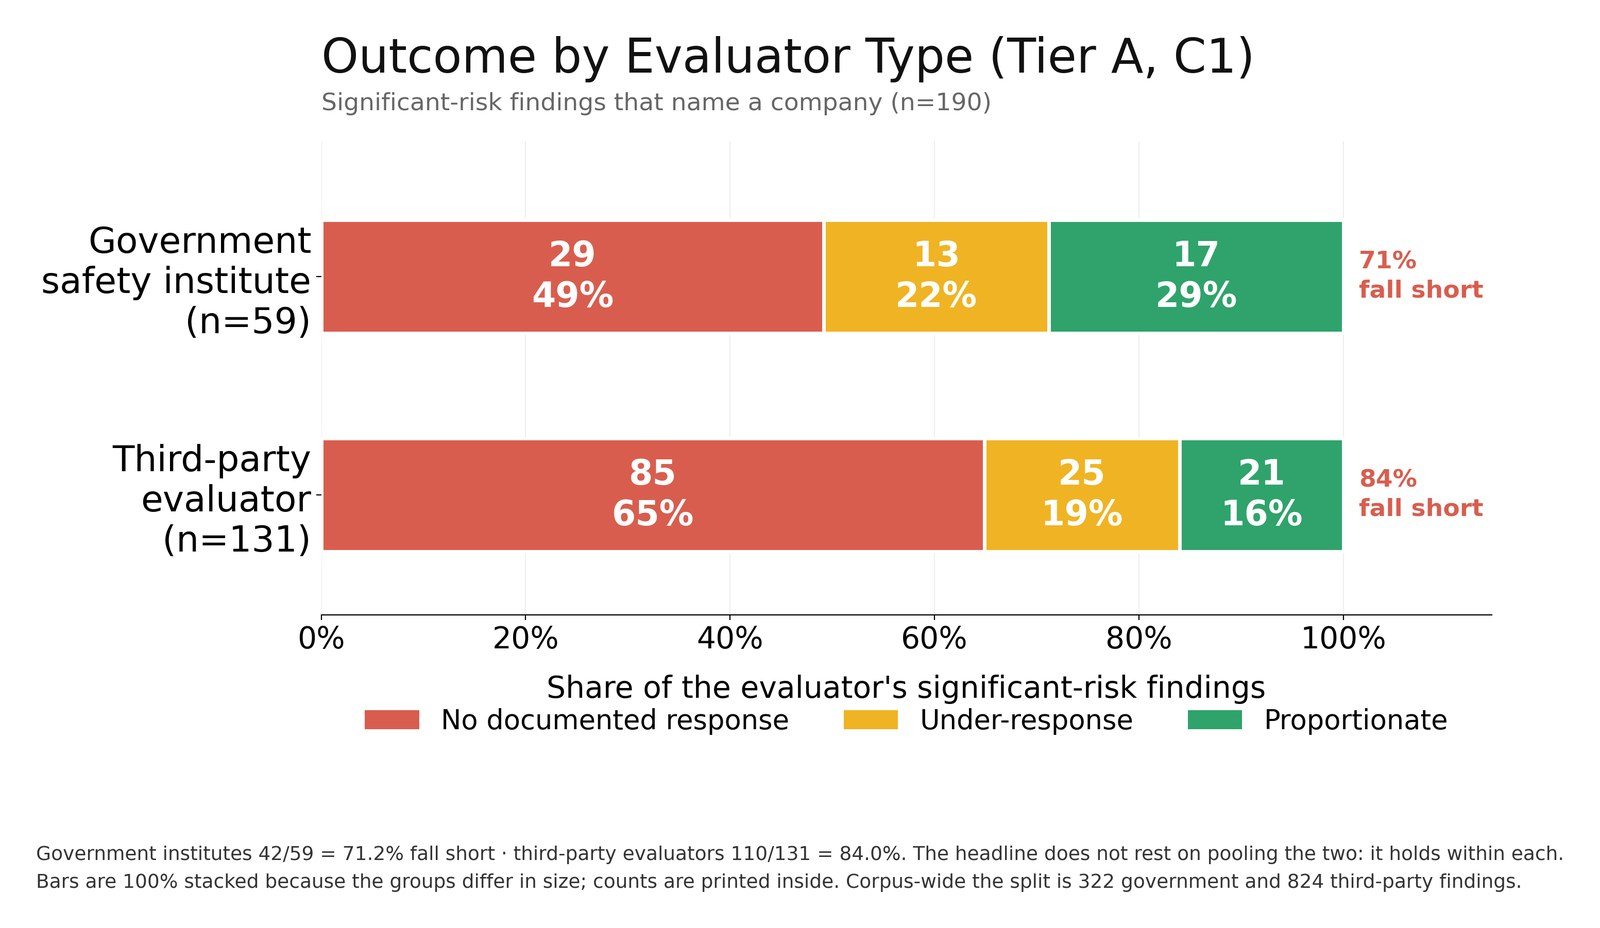
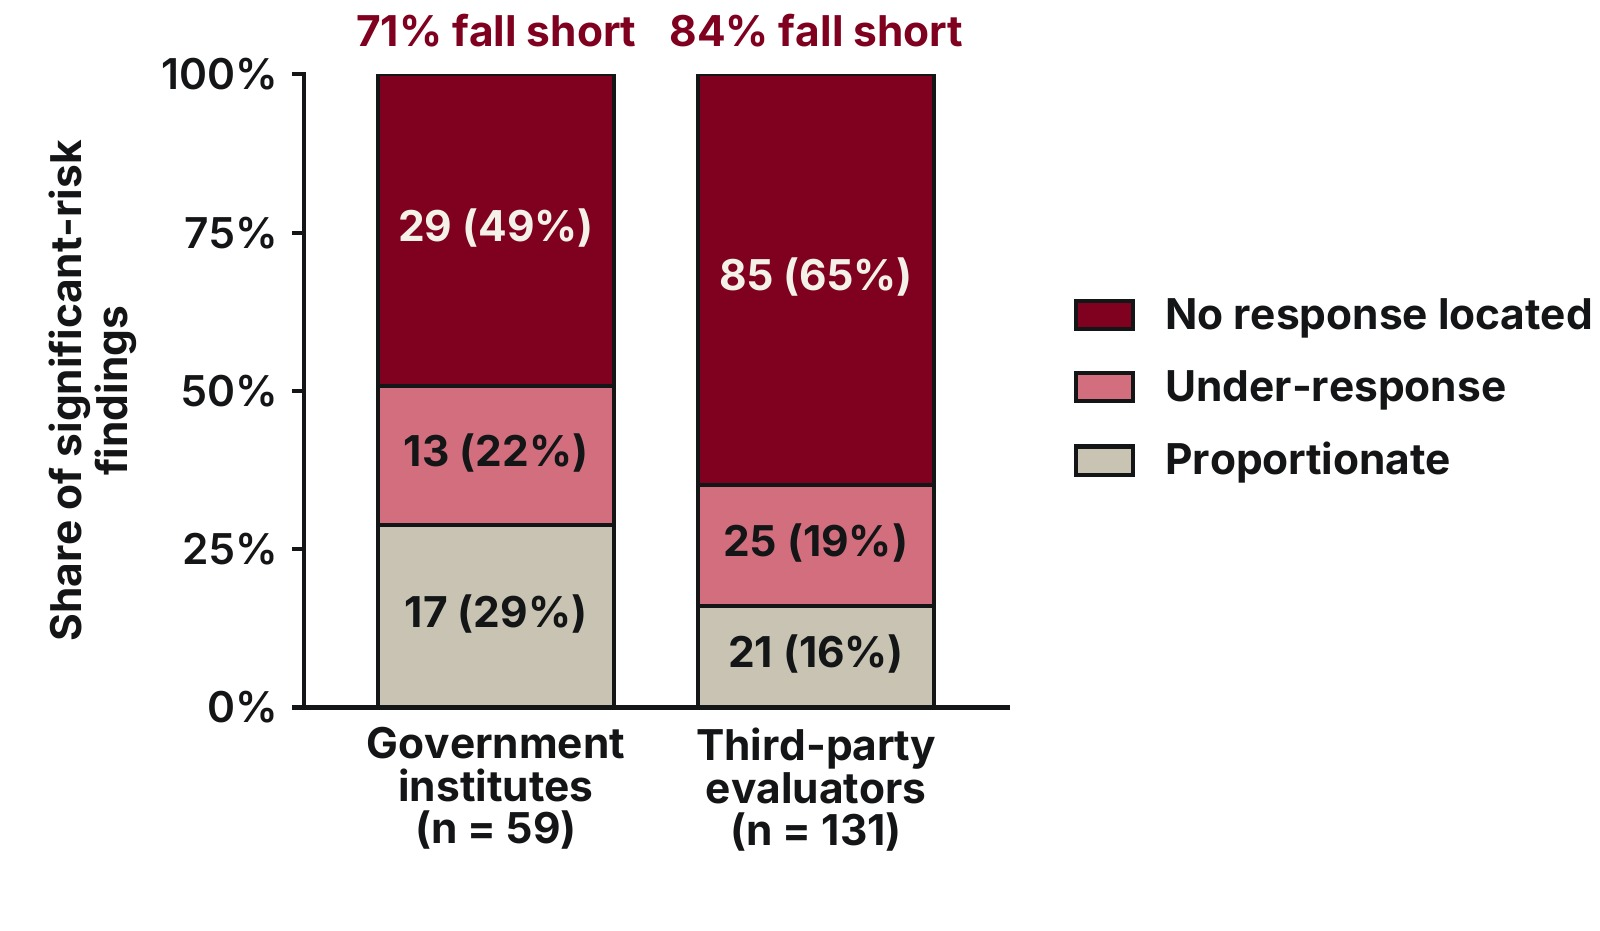
Replace site charts with the ICLR set and finish the taxonomy alignment
All 29 chart images regenerated from charts/ICLR (vector PDFs rendered to
1600px JPEG). The ICLR set carries the paper's own labels, so the last place
the old abbreviations survived is now gone:

  C1 / C2          -> Significant risk / Low risk
  Tier A / B / C   -> Trackable / Non-trackable / Non-empirical evaluation findings
  outcomes         -> Proportionate / Under-response / No response located

Verified across all 29: no C1, C2, Tier A/B/C or Channel A/B/C anywhere.

Captions and labels follow the charts:
  - "Only Tier A is scored" -> "Only trackable evaluation findings are scored"
  - "The Tier A test" -> "The trackable-finding test"
  - institution types now display as the paper writes them -- Nonprofit (AEF),
    Nonprofit (independent), For-profit -- rather than the raw column values
  - both chart alt texts rewritten to describe the new images and counts

diff --git a/app.js b/app.js
@@ -113,8 +113,8 @@ document.getElementById("asof").textContent =
    into one another whenever every Tier A gap was a C1 gap — the same figure printed
    twice under two names — so the Tier A count is shown instead. */
 const tiles = [
-  { label: "Trackable evaluation findings", value: M.trackable, sub: "Tier A — a response is owed" },
-  { label: "Significant risk", value: M.trackableC1, sub: `of ${M.trackable} Tier A findings` },
+  { label: "Trackable evaluation findings", value: M.trackable, sub: "a company could answer for it" },
+  { label: "Significant risk", value: M.trackableC1, sub: `of ${M.trackable} trackable evaluation findings` },
   { label: "Any response at all", value: M.anyResponse, sub: `${pct(M.anyResponse, M.trackable)}% of the set` },
   { label: "Substantive responses", value: M.substantive, sub: "specific, documented, attributed" },
 ];
@@ -553,7 +553,7 @@ const charts = [
       mount.replaceChildren();
       const img = h("img", {
         src: "charts/17_severity_classification.jpg",
-        alt: "Bar chart, Severity Classification (n=1,146): Category 1, significant risk, 340 findings (30%); Category 2, low risk, 806 findings (70%). Severity is decided by majority vote of three cross-provider models (Claude Sonnet 5, GPT-5.5, Gemini 3.1 Pro) scoring each finding against eight dangerous-capability domains. 1,032 of 1,146 (90.1%) were unanimous 3-0; the remaining 114 (9.9%) were decided 2-1.",
+        alt: "Bar chart of all 1,146 findings by severity: significant risk 340 (29.7%); low risk 806 (70.3%). Severity is decided by majority vote of three cross-provider models (Claude Sonnet 5, GPT-5.5, Gemini 3.1 Pro) scoring each finding against eight dangerous-capability domains. 1,032 of 1,146 (90.1%) were unanimous 3-0; the remaining 114 (9.9%) were decided 2-1.",
         style: "width:100%;height:auto;border-radius:10px;display:block",
       });
       mount.append(img);
@@ -638,13 +638,13 @@ const charts = [
   },
   {
     title: "Institution tree, by Institution Type",
-    sub: "Government / Non-Profit (AIEF) / Non-Profit (Independent) / For-Profit — the split behind the response-rate gap between AIEF and other non-profits",
+    sub: "Government / Nonprofit (AEF) / Nonprofit (independent) / For-profit — the split behind the response-rate gap between AEF and other nonprofits",
     wide: true,
     render(mount) {
       mount.replaceChildren();
       const img = h("img", {
         src: "charts/13_institution_type_tree.jpg",
-        alt: "Left-to-right tree diagram: findings by Institution Type - Government, Non-Profit (AIEF), Non-Profit (Independent) and For-Profit, each branching into its individual evaluating organisations. The accompanying table below the chart carries the exact counts.",
+        alt: "Left-to-right tree diagram: all 1,146 findings by Institution Type - Nonprofit (AEF) 335, Government 320, Nonprofit (independent) 253 and For-profit 238, each branching into its individual evaluating organisations. The accompanying table below the chart carries the exact counts.",
         style: "width:100%;height:auto;border-radius:10px;display:block",
       });
       mount.append(img);
@@ -656,7 +656,11 @@ const charts = [
       for (const f of F) {
         /* compound values (e.g. "Government;Lab") fold into their primary type,
            matching the chart, so the branches sum to the full corpus */
-        const t = (f.instType || "Other").split(";")[0];
+        const RAW = { "Non-Profit (AIEF)": "Nonprofit (AEF)",
+                     "Non-Profit (Independent)": "Nonprofit (independent)",
+                     "For-Profit": "For-profit" };
+        const raw = (f.instType || "Other").split(";")[0];
+        const t = RAW[raw] || raw;
         if (!byType.has(t)) byType.set(t, new Map());
         const m = byType.get(t);
         m.set(f.inst, (m.get(f.inst) || 0) + 1);

diff --git a/index.html b/index.html
@@ -531,7 +531,7 @@ footer.site { border-top:1px solid var(--rule); padding-block:36px 56px; font-si
       <figure>
         <img src="charts/21_severity_x_action_heatmap.jpg"
              alt="Severity against what the company published, every cell holding its finding count and outcome.">
-        <figcaption><b>Severity &times; company response.</b> Every Tier A finding, placed by how
+        <figcaption><b>Severity &times; company response.</b> Every trackable evaluation finding, placed by how
           serious it is and what the company published.</figcaption>
       </figure>
       <figure>
@@ -614,7 +614,7 @@ footer.site { border-top:1px solid var(--rule); padding-block:36px 56px; font-si
       </summary>
 <div class="g3">
       <figure><img loading="lazy" src="charts/07_tier_distribution.jpg" alt="Corpus split by tier.">
-        <figcaption><b>Only Tier A is scored.</b> The rest are real, source-verified findings that
+        <figcaption><b>Only trackable evaluation findings are scored.</b> The rest are real, source-verified findings that
           fail one of the two gates — methodology, governance, or results with no named company to
           answer for them. They stay in the dataset; excluding them from the headline while keeping
           them is what makes the denominator defensible.</figcaption></figure>
@@ -759,7 +759,7 @@ footer.site { border-top:1px solid var(--rule); padding-block:36px 56px; font-si
       </div>
 
       <div class="step2">
-        <h3>The Tier A test — all three must hold</h3>
+        <h3>The trackable-finding test — all three must hold</h3>
         <div class="gates">
           <div class="gate"><div class="q">Condition 1</div><p>It is an empirical model finding — a measured result about behaviour, capability or safeguards.</p></div>
           <div class="gate"><div class="q">Condition 2</div><p>It names a specific company or model. Company level suffices; "anonymised" fails.</p></div>
